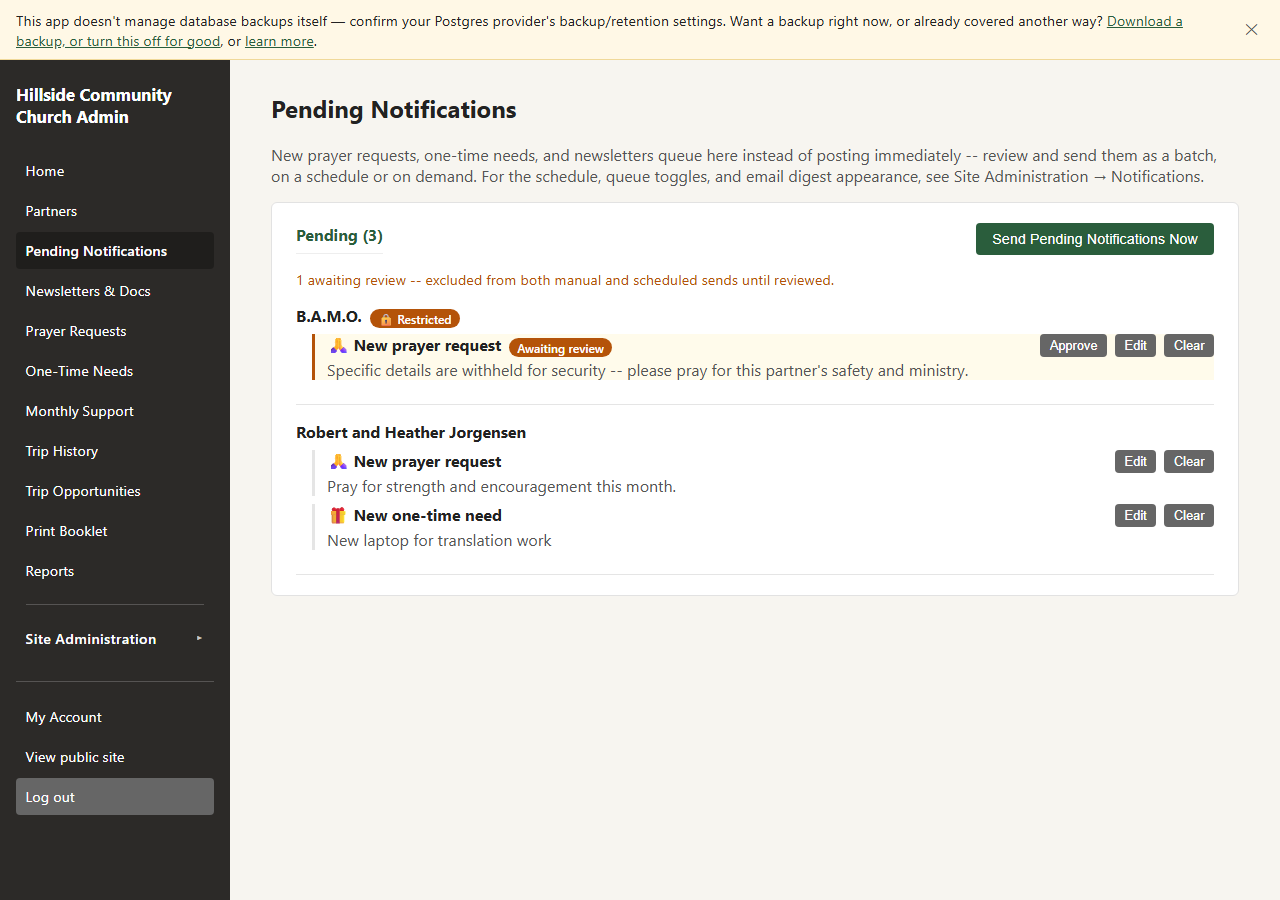
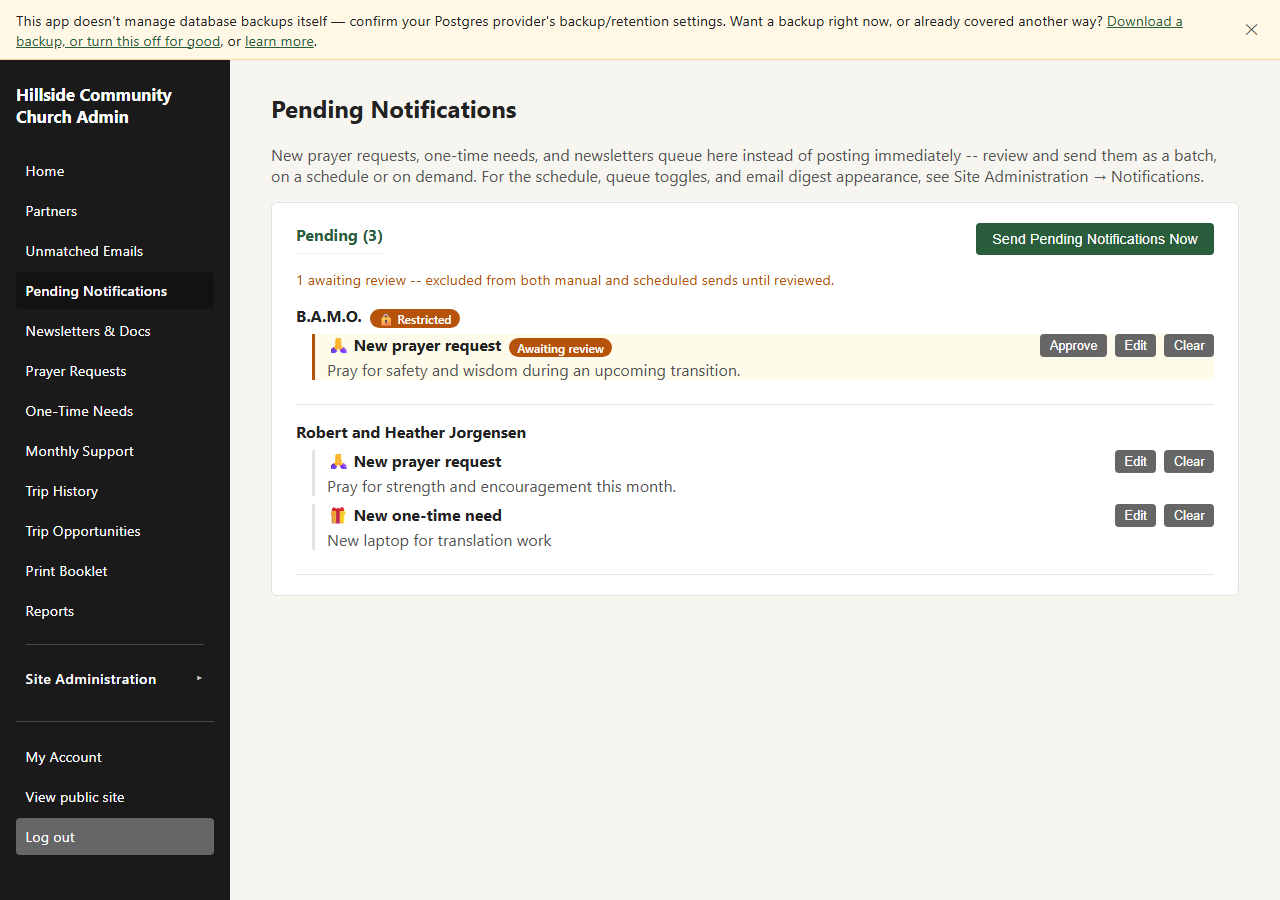
Show a held notification's real text in the list, not a placeholder
So an admin/editor reviewing the queue can read it and hit Approve
without opening Edit first. This isn't new exposure: GET
/api/prayer-requests and GET /api/support-needs already show a
restricted partner's real request/need text to any logged-in role with
no masking at all (see ADMIN_GUIDE.md's own "auth is the boundary"
rule) -- hiding it specifically in this one list never actually
protected anything, it just made this list inconsistent with the rest
of the app. Structural masking (name, photo, source link) is the real
protection here and is unaffected.

Drops the now-redundant reveal API call on Approve -- the list
response already carries the real text.

diff --git a/backend/test/routes/notifications.test.js b/backend/test/routes/notifications.test.js
@@ -574,7 +574,7 @@ describe("GET /api/notifications/pending -- any logged-in role", () => {
     );
   });
 
-  test("a restricted partner's notification is masked -- initials name, generic body, isRestricted flagged", async () => {
+  test("a restricted partner's notification masks name/photo/source link but shows the real text to any role", async () => {
     const restrictedPartner = await admin("/api/partners", {
       method: "POST",
       body: { kind: "missionary", displayName: `${FIXTURE_TAG} Jordan Rivera`, isRestricted: true },
@@ -590,23 +590,30 @@ describe("GET /api/notifications/pending -- any logged-in role", () => {
     assert.equal(created.status, 201, JSON.stringify(created.body));
 
     try {
-      const res = await admin("/api/notifications/pending");
-      assert.equal(res.status, 200);
-      const item = res.body.find((i) => i.partnerId === restrictedId);
-      assert.ok(item, "the restricted partner's notification should still be queued and visible");
-      assert.equal(item.isRestricted, true);
-      assert.ok(
-        !item.partnerName.includes("Jordan") && !item.partnerName.includes("Rivera"),
-        `real name must not leak: ${item.partnerName}`
-      );
-      assert.notEqual(item.bodyText, requestText, "the real request text must not leak");
-      assert.ok(item.bodyText.includes("withheld"), item.bodyText);
-      assert.equal(item.sourceLinkUrl, null, "no source link for a restricted partner's notification");
-      // #187: an unreviewed restricted real-content row stays unconditionally
-      // masked (this test's assertions above are unchanged), and is flagged
-      // as held from sending until an admin reviews it.
-      assert.equal(item.needsReview, true);
-      assert.equal(item.reviewedAt, null);
+      // Structural masking (name, photo, source link) applies regardless
+      // of role -- that's the real security boundary (public vs. admin
+      // dashboard). The request/need text itself is not role-gated here,
+      // same as GET /api/prayer-requests/GET /api/support-needs already
+      // show it to any logged-in role with no masking at all -- so a
+      // held row's real text shows up the same way for every role.
+      for (const asRole of [admin, editor, viewer]) {
+        const res = await asRole("/api/notifications/pending");
+        assert.equal(res.status, 200);
+        const item = res.body.find((i) => i.partnerId === restrictedId);
+        assert.ok(item, "the restricted partner's notification should still be queued and visible");
+        assert.equal(item.isRestricted, true);
+        assert.ok(
+          !item.partnerName.includes("Jordan") && !item.partnerName.includes("Rivera"),
+          `real name must not leak: ${item.partnerName}`
+        );
+        assert.equal(item.bodyText, requestText, "the real text should show, not the generic placeholder");
+        assert.equal(item.sourceLinkUrl, null, "no source link for a restricted partner's notification");
+        // #187: an unreviewed restricted real-content row stays held
+        // from sending until an admin/editor reviews it, regardless of
+        // who's asking or that they can already see the text.
+        assert.equal(item.needsReview, true);
+        assert.equal(item.reviewedAt, null);
+      }
     } finally {
       await prisma.pendingNotification.deleteMany({ where: { partnerId: restrictedId } });
       await prisma.partner.delete({ where: { id: restrictedId } }).catch(() => {});

diff --git a/frontend/src/pages/AdminPendingNotifications.jsx b/frontend/src/pages/AdminPendingNotifications.jsx
@@ -3,7 +3,6 @@ import {
   fetchPendingNotifications,
   sendPendingNotifications,
   deletePendingNotification,
-  revealPendingNotification,
   updatePendingNotification,
 } from "../api/client.js";
 import NotificationReviewModal from "../components/admin/NotificationReviewModal.jsx";
@@ -237,26 +236,30 @@ export default function AdminPendingNotifications() {
   // The lightweight path for a held row that doesn't need any wording
   // changed -- skips opening the full edit modal, but carries the exact
   // same real-world consequence as saving there (it clears the hold, so
-  // this is sendable from here on), so it gets the same safety gate: show
-  // the real text and make the admin explicitly confirm it before it's
-  // saved as-is. Uses the same reveal+save calls the modal itself uses,
-  // just without the textarea step in between.
+  // this is sendable from here on), so it gets the same safety gate:
+  // make the admin explicitly confirm the real text before it's saved
+  // as-is. No separate reveal call needed -- blurb.bodyText is already
+  // the real (unmasked) text here, not the placeholder: GET /pending
+  // returns it unmasked for any held row, since the underlying
+  // request/need text was never actually hidden from any role in the
+  // first place (GET /api/prayer-requests and /api/support-needs show
+  // it to anyone logged in, restricted or not -- see ADMIN_GUIDE.md §
+  // Who can see what).
   async function handleQuickApprove(blurb) {
     setApprovingId(blurb.id);
     setError("");
     setSuccess("");
     try {
-      const { rawText } = await revealPendingNotification(blurb.id);
       const confirmed = window.confirm(
         `This partner is restricted. Approving marks this reviewed and eligible to send to any enabled ` +
           `notification channel -- their name, photo, and any source-file link stay masked regardless, but ` +
           `the exact wording below is what goes out as-is. Check it for anything else that could identify ` +
           `them or their location (a specific place, date, or detail only they'd be tied to) before approving.\n\n` +
-          `Text to send:\n"${rawText}"\n\n` +
+          `Text to send:\n"${blurb.bodyText}"\n\n` +
           `Approve and send this as-is?`
       );
       if (!confirmed) return;
-      const updated = await updatePendingNotification(blurb.id, rawText);
+      const updated = await updatePendingNotification(blurb.id, blurb.bodyText);
       setPending((list) => list.map((item) => (item.id === updated.id ? { ...item, ...updated } : item)));
     } catch (err) {
       setError(err.response?.data?.error || "Couldn't approve that notification.");

diff --git a/backend/src/routes/notifications.js b/backend/src/routes/notifications.js
@@ -29,12 +29,31 @@ router.get("/pending", async (req, res, next) => {
       select: { id: true, displayName: true, isRestricted: true },
     });
     const partnerById = new Map(partners.map((p) => [p.id, p]));
+    // Not role-gated: GET /api/prayer-requests and GET /api/support-needs
+    // already return a restricted partner's real request/need text to
+    // every logged-in role with no masking at all (this app's "auth is
+    // the boundary" rule -- see ADMIN_GUIDE.md § Who can see what), so
+    // hiding it specifically in this list behind a role check wouldn't
+    // protect anything a viewer couldn't already read on those pages --
+    // it would just make this one list inconsistent with the rest of the
+    // app for no real reason. Showing it here too means an admin/editor
+    // reviewing a held row can read it and hit Approve without opening
+    // Edit first (#187 follow-up).
     const items = rows
       .map((row) => {
         const blurb = buildBlurb(row, partnerById.get(row.partnerId));
         if (!blurb) return null;
+        const needsReview =
+          REVIEW_GATED_TYPES.has(row.type) &&
+          !!partnerById.get(row.partnerId)?.isRestricted &&
+          !row.reviewedAt;
+        const bodyText = needsReview
+          ? (buildBlurb(row, { ...partnerById.get(row.partnerId), isRestricted: false })?.bodyText ??
+            blurb.bodyText)
+          : blurb.bodyText;
         return {
           ...blurb,
+          bodyText,
           // Surfaced separately from the masking itself (the blurb's own
           // fields are already masked above) so the admin reviewing the
           // queue can see at a glance which rows are from a restricted
@@ -45,10 +64,7 @@ router.get("/pending", async (req, res, next) => {
           // path (see notificationFlush.js's own needsReview(), which
           // this must stay consistent with -- restricted real-content
           // row, never yet edited/confirmed).
-          needsReview:
-            REVIEW_GATED_TYPES.has(row.type) &&
-            !!partnerById.get(row.partnerId)?.isRestricted &&
-            !row.reviewedAt,
+          needsReview,
           reviewedAt: row.reviewedAt,
           groupmeSentAt: row.groupmeSentAt,
           emailSentAt: row.emailSentAt,

diff --git a/USER_GUIDE.md b/USER_GUIDE.md
@@ -730,23 +730,32 @@ held item (next).
 **Reviewing a restricted partner's request or need.** A restricted
 partner's prayer request or one-time need — new, answered, or decided
 — can't send to either channel, manually or on schedule, until an admin
-reviews it. It shows an amber **Awaiting review** badge and stays
-excluded from "Send Pending Notifications Now" (and from the automatic
-schedule) until cleared, one of two ways:
+or editor reviews it. It shows an amber **Awaiting review** badge and
+stays excluded from "Send Pending Notifications Now" (and from the
+automatic schedule) until cleared.
 
-- **Approve** — shows the real text in a confirmation prompt and clears
+The real (unmasked) text shows right there on the row itself, not a
+generic placeholder — the structural masking above (name, photo,
+source link) is the actual protection here, not the wording, so there's
+nothing gained by hiding it in this one list when [Prayer
+Requests](#prayer-requests) and [One-Time
+Needs](#financial-support--one-time-needs) already show it to anyone
+logged in regardless of role. Clear the hold one of two ways:
+
+- **Approve** — confirms the text already shown on the row and clears
   the hold in one click, with nothing to edit.
 - **Edit**, then **Save and Approve** (the Save button's label when the
-  item is held) — edit the wording first, confirm the same prompt, and
-  save; the hold clears at the same time.
+  item is held) — edit the wording first, confirm, and save; the hold
+  clears at the same time.
 
-Either way, the confirmation prompt shows the exact text that's about
-to become sendable and asks you to check it for anything else that
-could identify the partner or their location before confirming — the
-structural masking above (name, photo, source link) stays in effect
-regardless, but the wording itself is otherwise sent as-is. Once
-reviewed, the item is eligible for the next send like any other queued
-item; editing it again later overwrites what was previously reviewed.
+Either way, the confirmation prompt repeats the exact text that's
+about to become sendable and asks you to check it for anything else
+that could identify the partner or their location before confirming —
+the structural masking above (name, photo, source link) stays in
+effect regardless, but the wording itself is otherwise sent as-is.
+Once reviewed, the item is eligible for the next send like any other
+queued item; editing it again later overwrites what was previously
+reviewed.
 
 The **Pending (N)** heading shows a note when any items are being held
 this way, and the **Send Pending Notifications Now** button only

diff --git a/ADMIN_GUIDE.md b/ADMIN_GUIDE.md
@@ -471,7 +471,13 @@ login. In practice that means:
 
 If you need staff who can see *some* partners but not others, this app
 can't express that, and pretending otherwise with roles would be worse
-than saying so plainly.
+than saying so plainly. The Pending Notifications page's own held-row
+text (see [§ Restricted-partner notification
+review](#restricted-partner-notification-review)) follows this same
+rule — it's not role-gated, since `GET /api/prayer-requests` and `GET
+/api/support-needs` already show that same text to any logged-in role
+with no masking at all; hiding it specifically in one list would be
+exactly the kind of reduced read view this section rules out.
 
 ### Rotating SESSION_SECRET
 
@@ -658,9 +664,14 @@ content can judge. Newsletters aren't affected — a restricted partner's
 newsletter notification is already fully suppressed, nothing to review.
 
 On the Pending Notifications page, a held item shows an amber
-**Awaiting review** badge and two ways to clear it, both requiring the
-admin to read the real (unmasked) text first and confirm it in a dialog
-before it's accepted:
+**Awaiting review** badge, and the row itself already shows the real
+(unmasked) text — not the generic placeholder — regardless of who's
+looking; that text was never actually protected by hiding it here, since
+`GET /api/prayer-requests`/`GET /api/support-needs` already show it to
+any logged-in role with no masking at all (see [§ Who can see
+what](#who-can-see-what)). Only admin/editor can actually clear a hold,
+which still requires a confirm dialog repeating the exact text before
+it's accepted, one of two ways:
 
 - **Approve** — a one-click path for text that's already fine as-is.
   Shows the real text in the confirmation prompt, nothing to edit.
